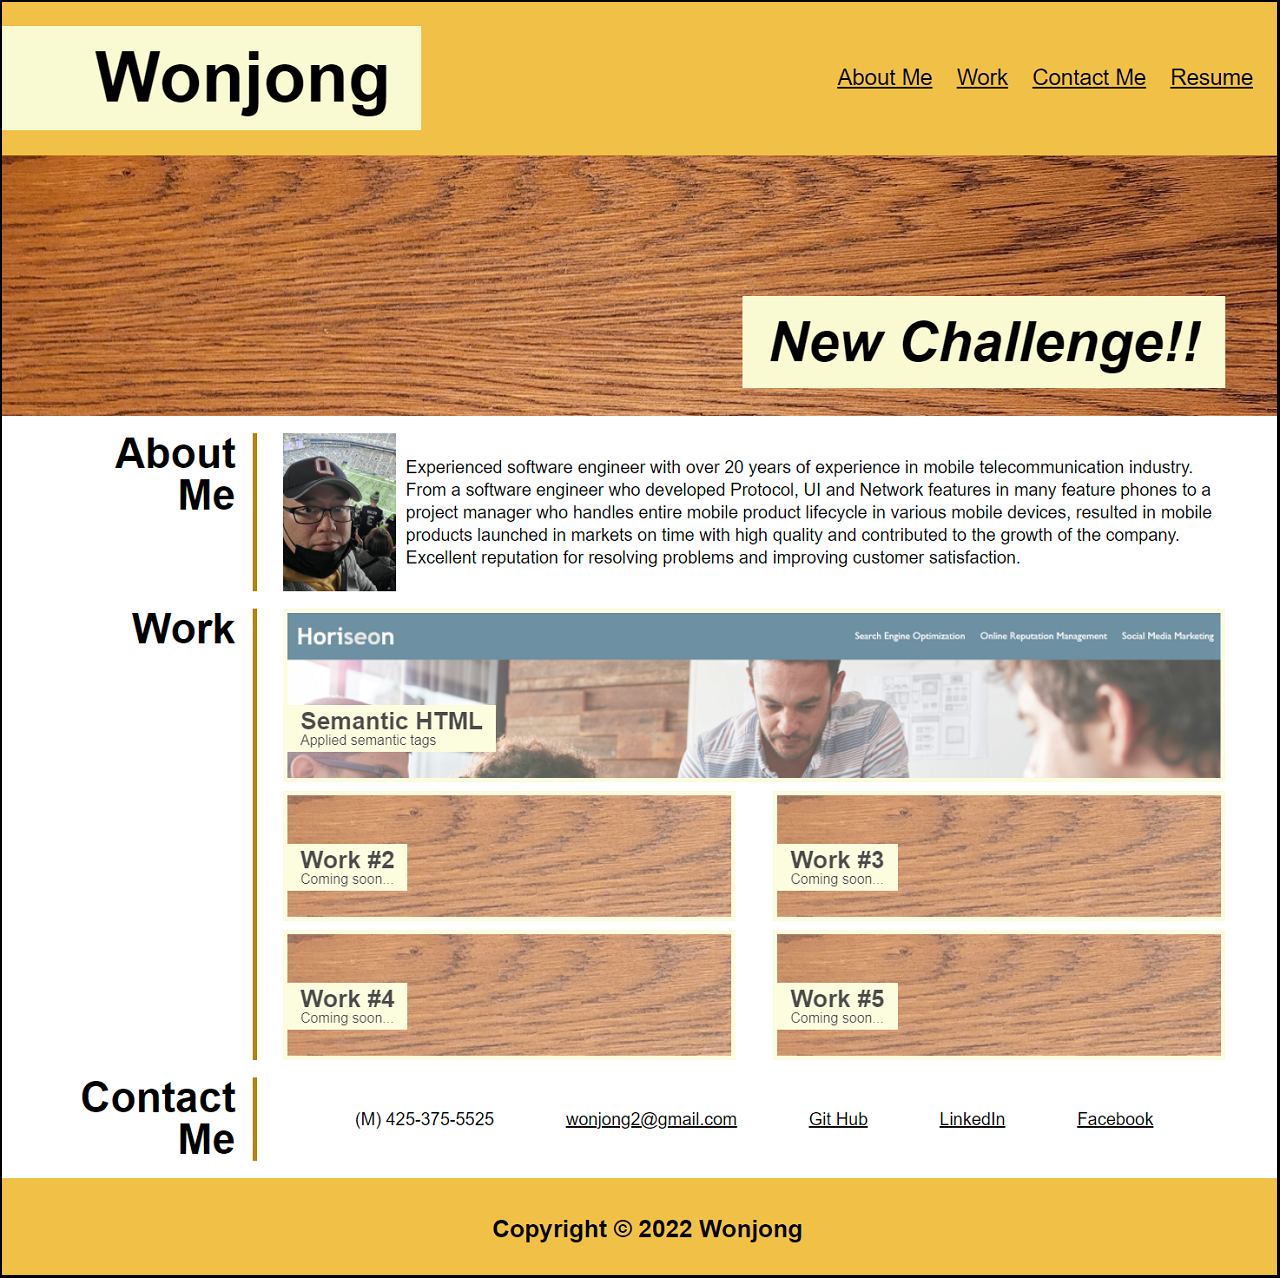
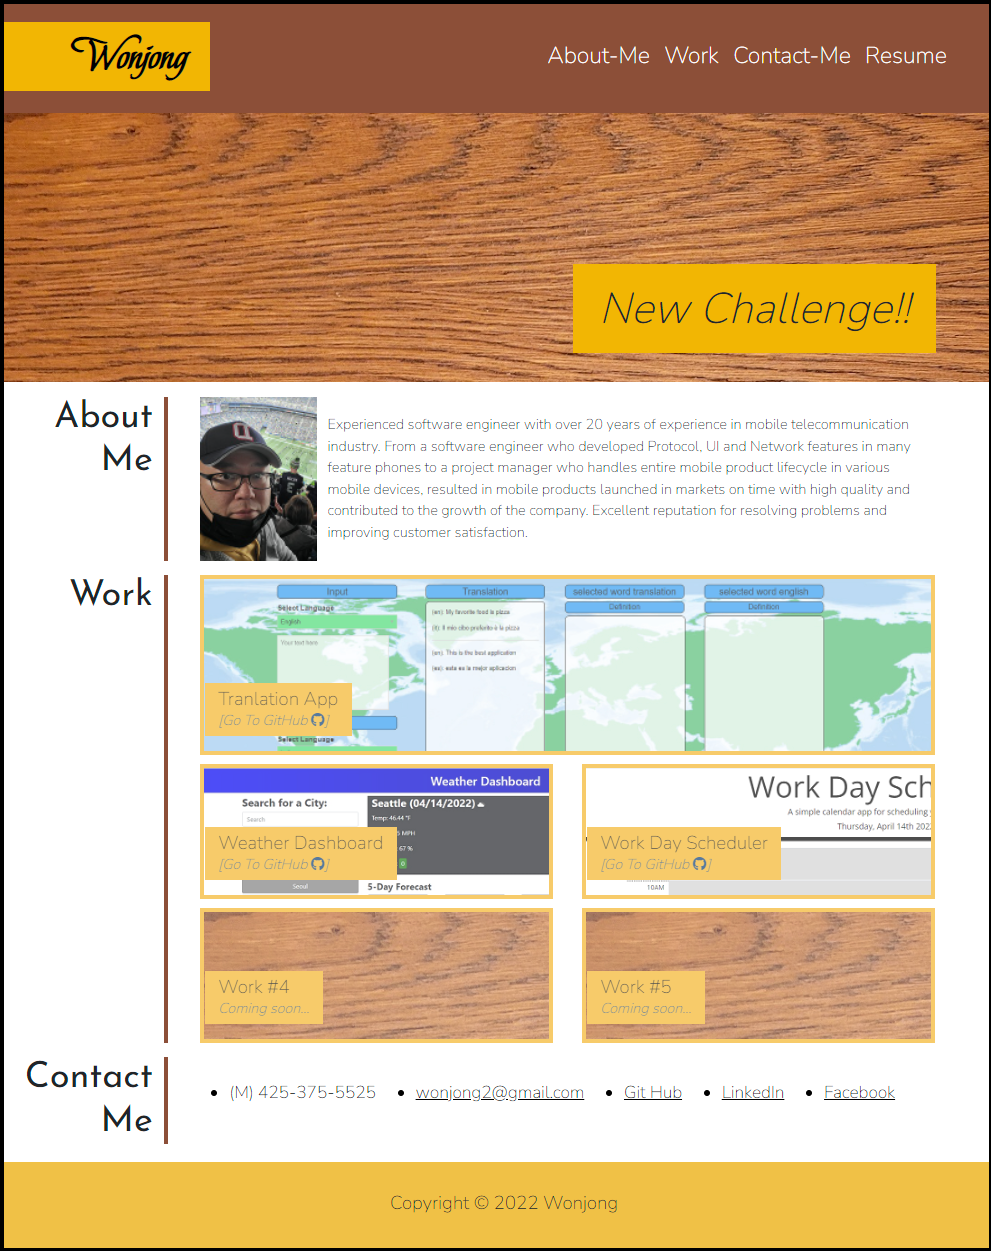
Updated README file

diff --git a/README.md b/README.md
@@ -16,6 +16,7 @@ It will be developed and improved over and over.
 < 2nd implementation, 4/16 >
 - Use Bootstrap for UI configuration
 - Use JavaScript to handle 'Click' event on the Work section
+- Use Google fonts
 - Add the GitHub link to each works
 - Use Font Awesome for the GitHub icon
 - Update the Resume with the latest information
@@ -33,15 +34,18 @@ https://wonjong2.github.io/Wonjong_Portfolio/
 - When a user clicks one of the links in the navigation, then the UI scrolls to the corresponding section.
 - When a user clicks one of the images in the Work section, then a user is taken to that deployed application. 
 - When a user clicks area of "[Go To GitHub]", then a user is taken to the repository of it.
-- __Simple Demo__ : https://watch.screencastify.com/v/qpZMIS3KgBERIE50quGm
+- __Simple Demo__ : https://watch.screencastify.com/v/LhRQBXJ3dNgIPLOZt9Hq
 
 Please see the screenshots of the layout change on this Website.
 
-- Layout 1 (Width > 1000px) <br>
-    ![Desktop layout](assets/images/desktop.png)
+- Layout 1 (Width >= 1000px) <br>
+    ![Large layout](assets/images/desktop.png)
 
-- Layout 2 (Width < 768px) <br>
-    ![iPad Air Layout](assets/images/820px.png) 
+- Layout 2 (1000px > Width >= 768px) <br>
+    ![Middle Layout](assets/images/820px.png) 
+
+- Layout 3 (768px > Width ) <br>
+    ![Small Layout](assets/images/414px.png) 
 
 ## License
 
